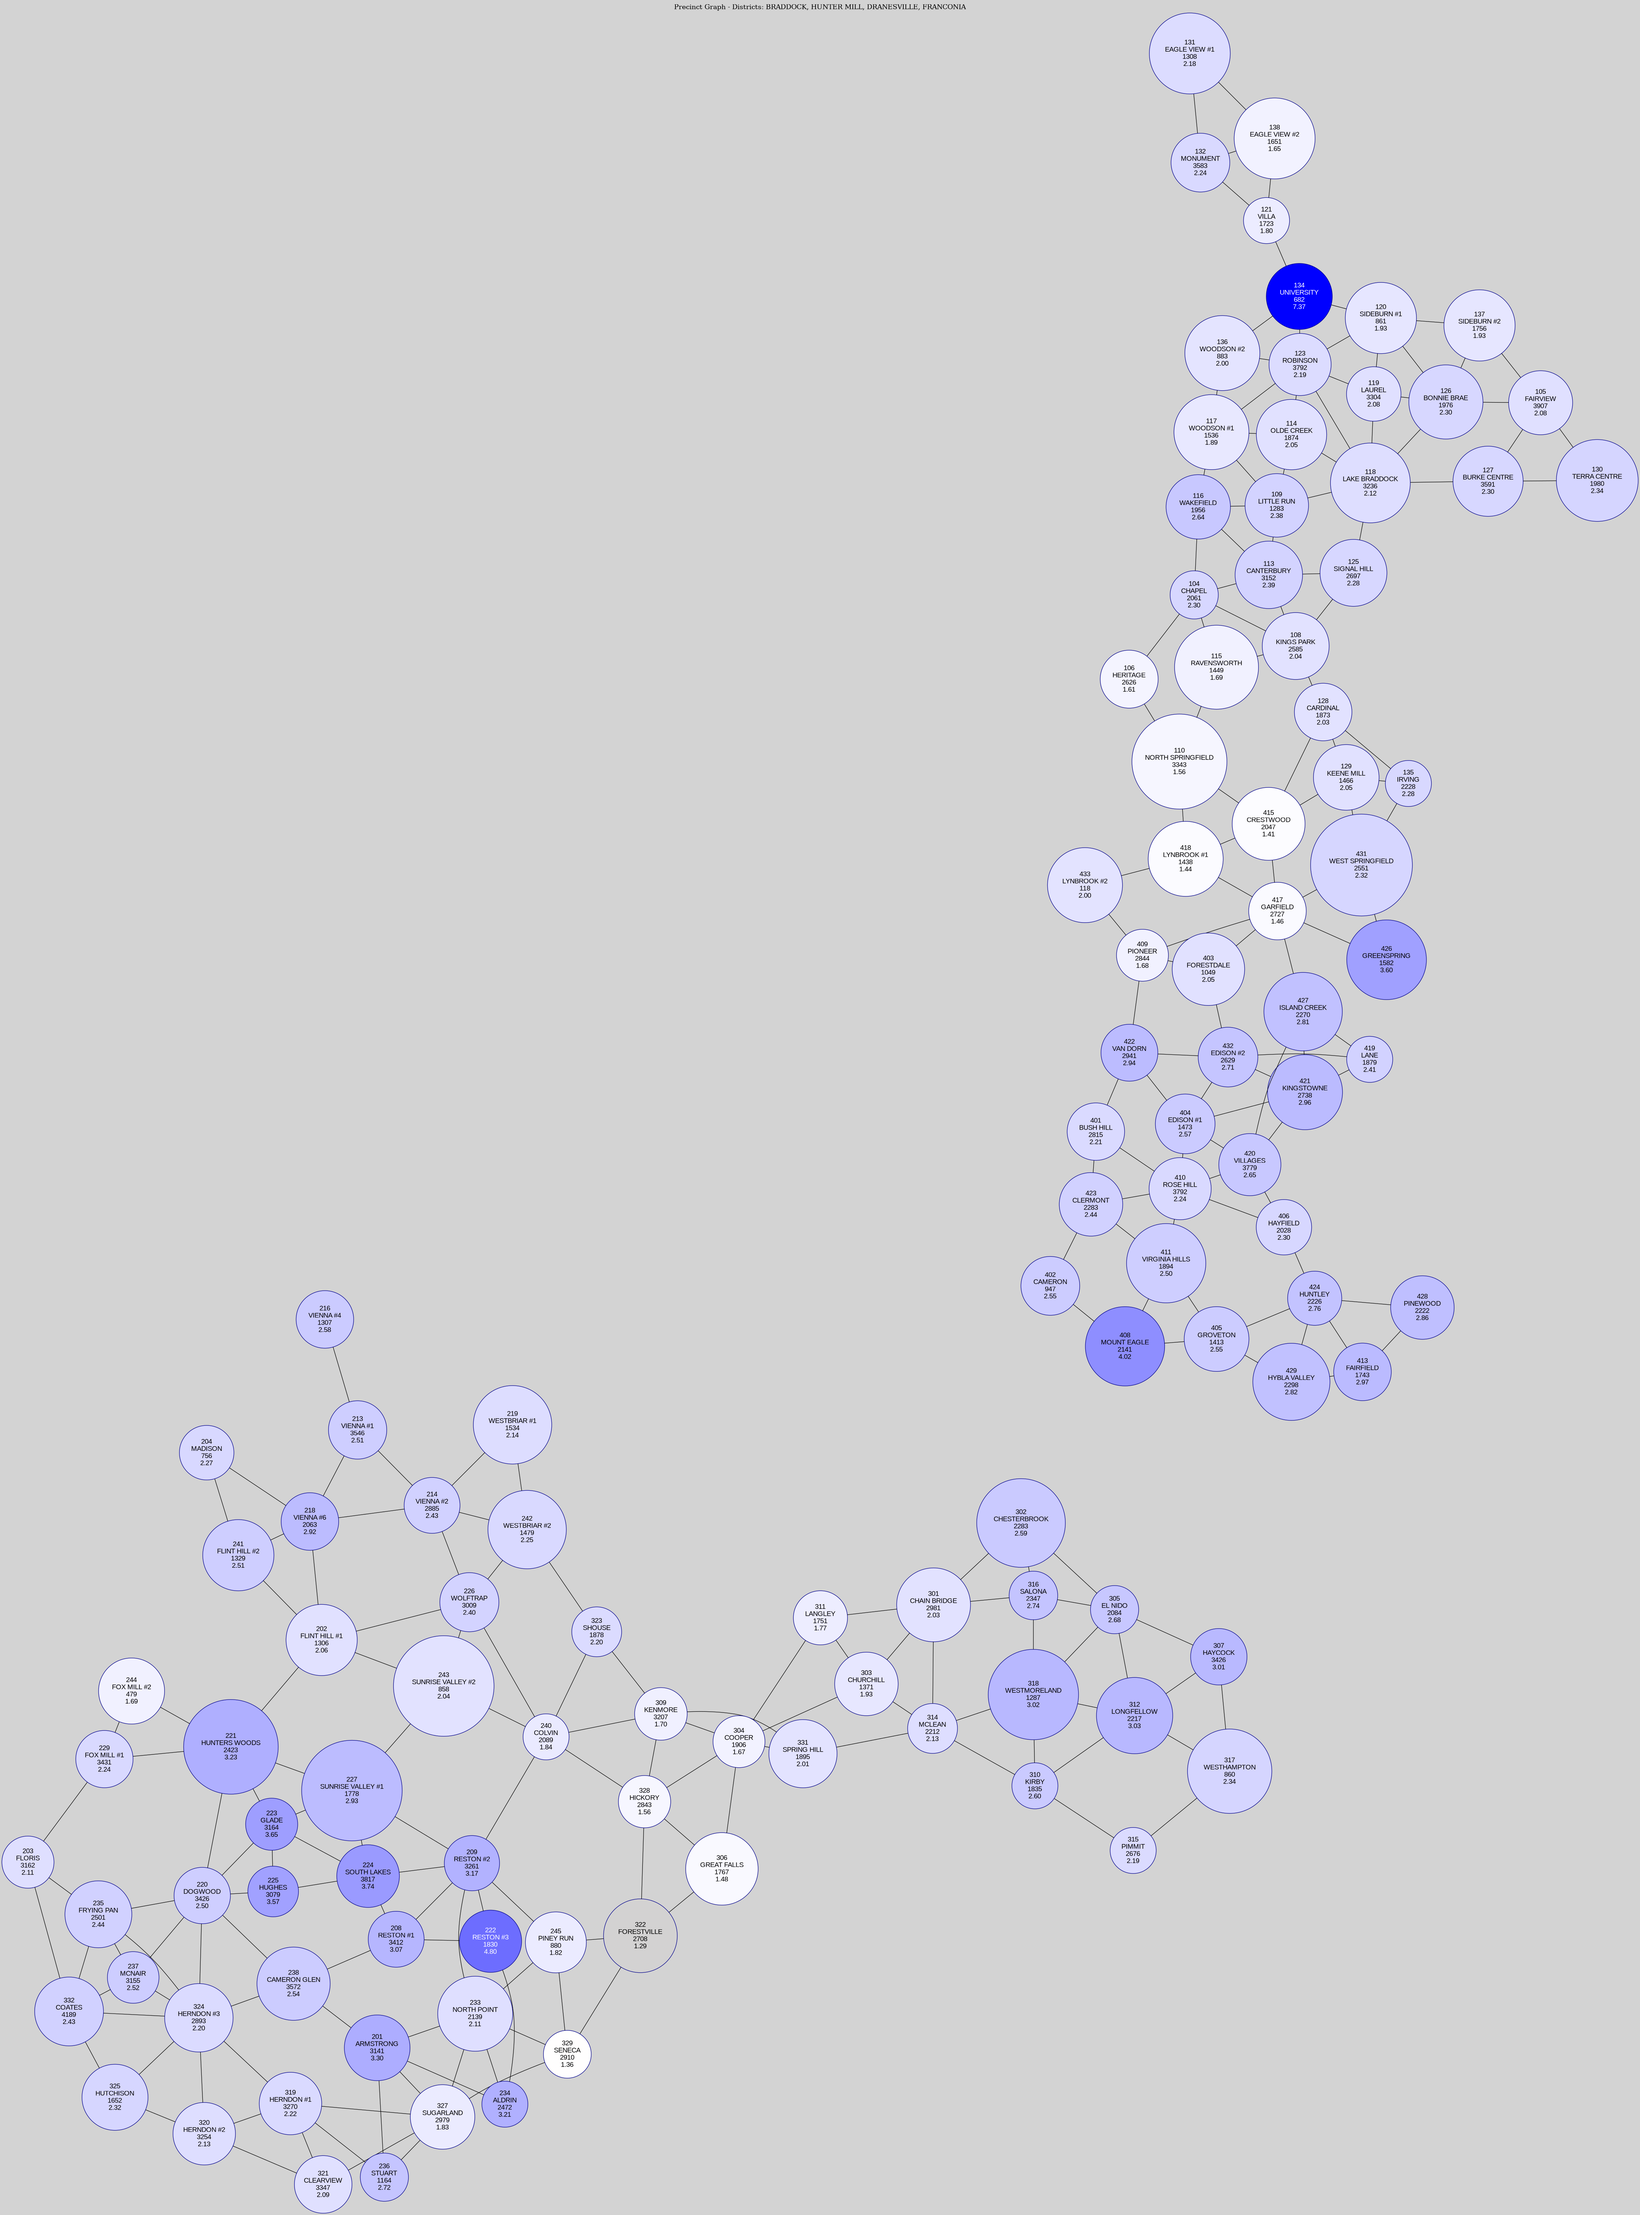
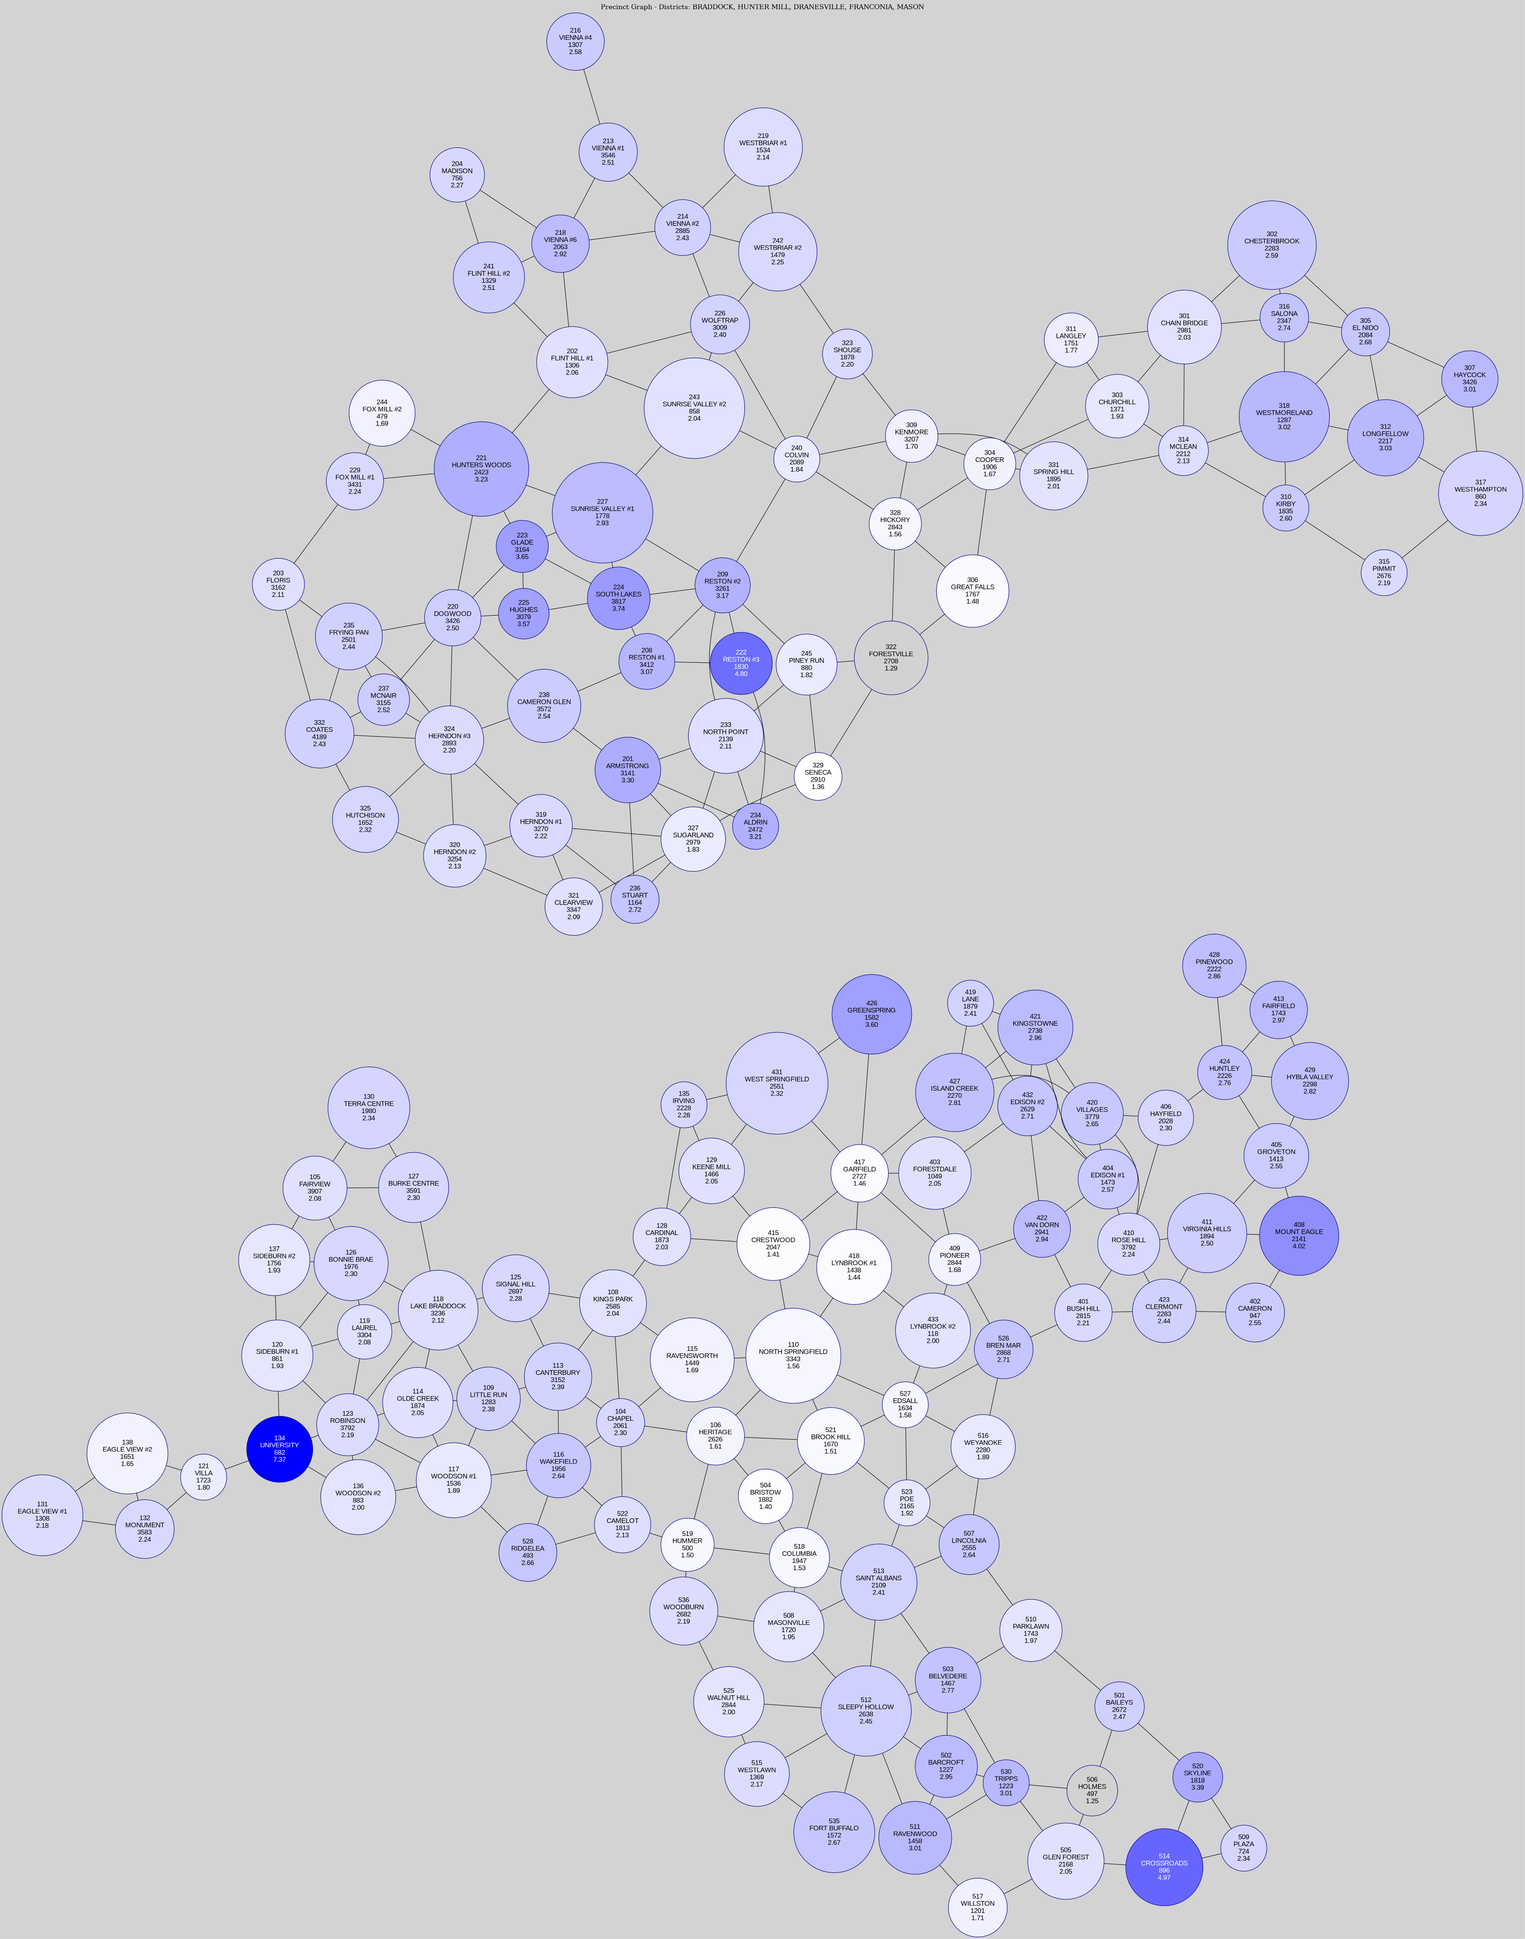
Add HUMMER precinct with voting data and update neighbor relationships

Changed region(s): [[0.0, 0.0, 1.0, 0.9996], [0.8688, 0.2811, 0.9309, 0.3124], [0.3413, 0.0, 0.4034, 0.0312]]

diff --git a/src/createPrecinctGraph.js b/src/createPrecinctGraph.js
@@ -44,7 +44,7 @@ function createPrecinctGraph() {
     precincts = precincts.filter(precinct => precinct.neighbors.length > 0);
     // filter out edges with ids not within the 100s
     for (const precinct of precincts) {
-        precinct.neighbors = precinct.neighbors.filter(neighbor => neighbor >= 100 && neighbor < 500);
+        precinct.neighbors = precinct.neighbors.filter(neighbor => neighbor >= 100 && neighbor < 600);
     }
 
     // node class
